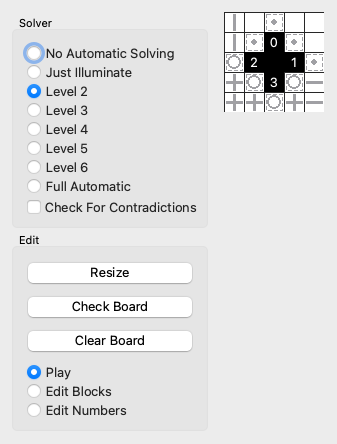
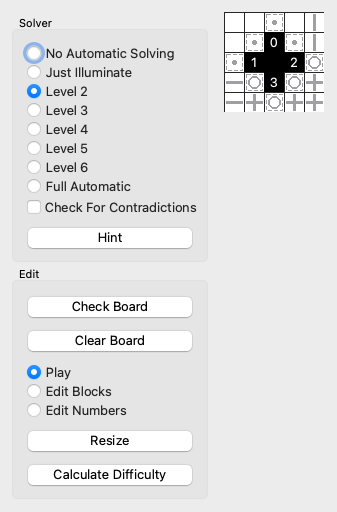
Align graphical elements
Closes #41

Changed region(s): [[0.0593, 0.527, 0.5935, 0.9662], [0.0593, 0.0293, 0.5935, 0.4977], [0.6528, 0.0, 0.9792, 0.2635]]

diff --git a/src/akari/gui.py b/src/akari/gui.py
@@ -211,9 +211,9 @@ class Cell(QWidget):
         pen.setColor(Qt.gray)
         p.setPen(pen)
         if self.state_user == "#" or self.main_window.puzzle_complete:
-            p.drawEllipse(2, 2, 16, 16)
+            p.drawEllipse(3, 3, 15, 15)
         else:
-            p.drawEllipse(4, 4, 12, 12)
+            p.drawEllipse(5, 5, 11, 11)
         p.end()
 
     def draw_dot(self, event: QPaintEvent) -> None:
@@ -226,7 +226,7 @@ class Cell(QWidget):
         brush.setColor(Qt.gray)
         brush.setStyle(Qt.SolidPattern)
         p.setBrush(brush)
-        p.drawEllipse(8, 8, 4, 4)
+        p.drawEllipse(9, 9, 3, 3)
         p.end()
 
     def draw_black_square(self, event: QPaintEvent) -> None:
@@ -1147,6 +1147,7 @@ def take_method_screenshot(
     board_backup = window.board
     window.board = puzzle.zero_pad(puzzle.boardify_string(cleandoc(board_str)))
     window.methods_group.actions()[auto_level].setChecked(True)
+    window.board_reference = window.board
     window.refresh_GUI()
     window.auto_level_checked()
     window.refresh_board()
